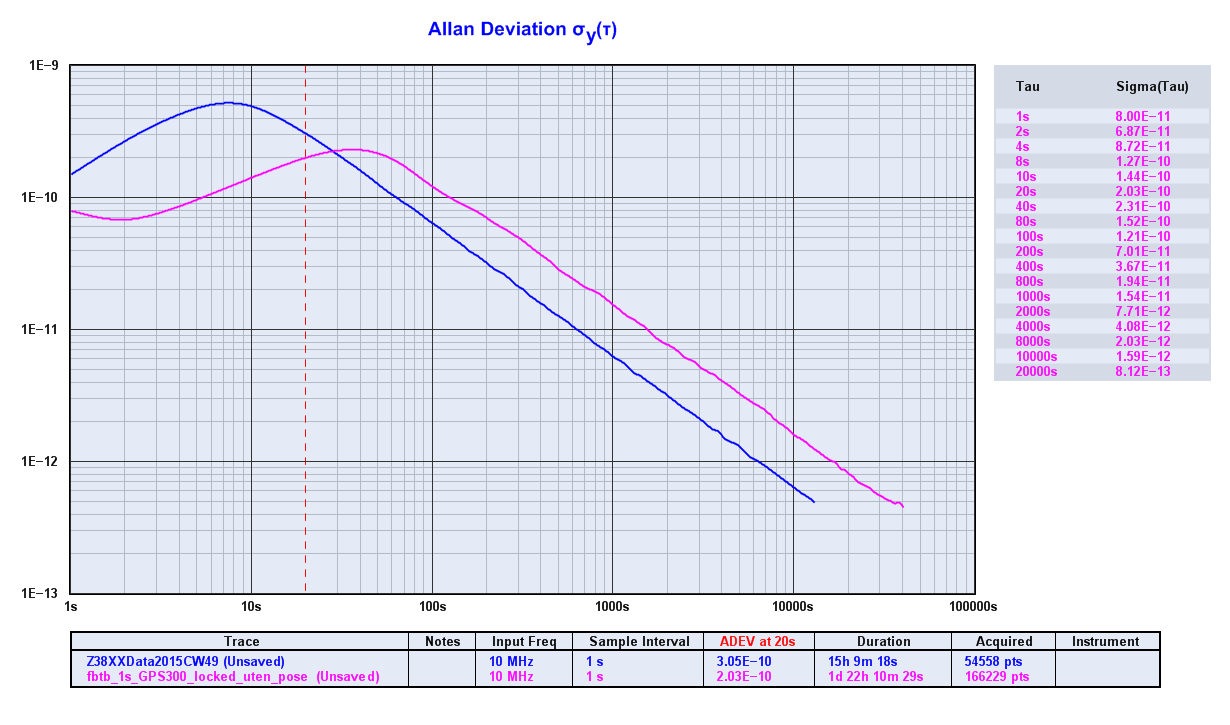
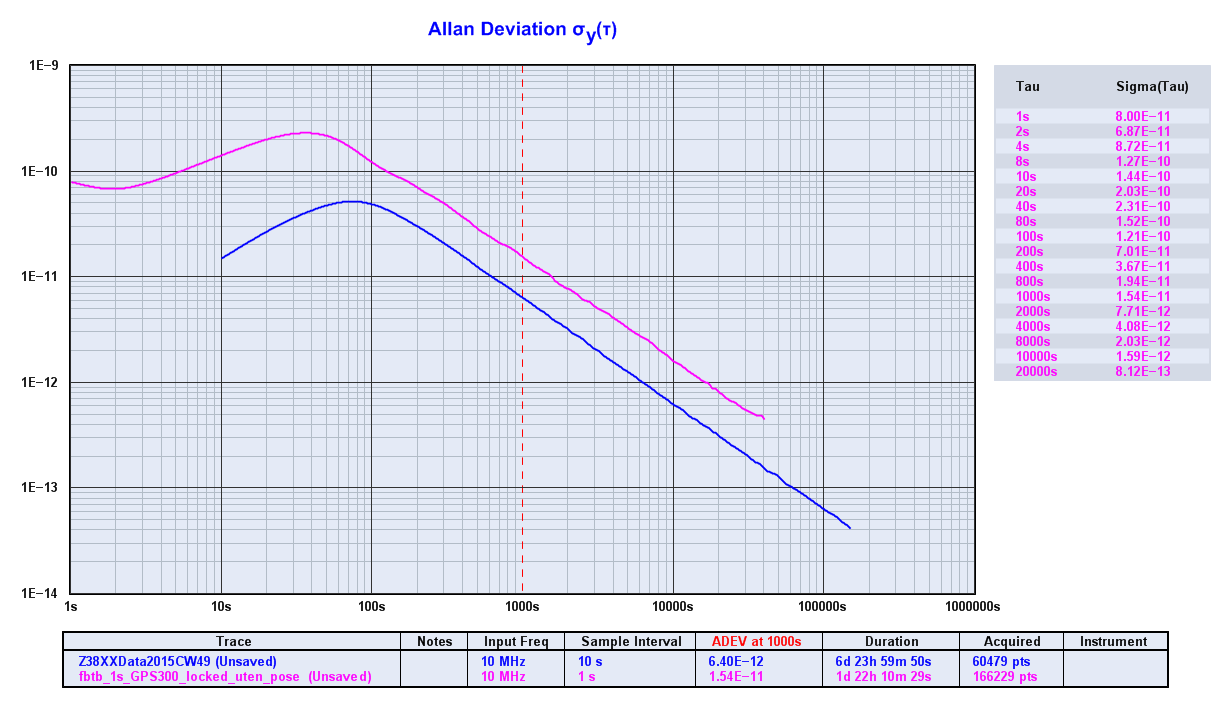
Fixed the errors Harald mentioned

diff --git a/unik4430/lab_report2.tex b/unik4430/lab_report2.tex
@@ -78,12 +78,12 @@
 \end{figure}
 
 \subsection{Observations}
-Figure \ref{fig:z38xx_oppstart} shows that the GPS receiver on the GPS-300 has a total of 13 satellites visible and that it is currently tracking 11, which is more than sufficient for timing purposes. It is also reasonable to assume that it has finished warming up considering how dramatic the readings where and how they are now. 
+Figure \ref{fig:z38xx_oppstart} is a screenshot taken from the Z38XX software. The blue plot shows PPS TI (current GPSR time interval difference from UTC or GPS) and the red is the current EFC (Electronic Frequency Control) tuning value. The bar on the bottom of the window shown in the figure, shows that the GPS receiver on the GPS-300 has a total of 13 satellites visible and that it is currently tracking 11, which is more than sufficient for timing purposes. Judging by how stable the EFC have become and how the PPS TI seems to have settled around zero, it is reasonable to assume that the oscillator is warmed up. Note also the fall in EFC in figure \ref{fig:Z38XX_gpsdo12} after we occupied the room and the temperature increased. This increase in temperature has to be compensated for.
 
 \begin{figure}[!htb]
   \centering
     \includegraphics[width=1\textwidth]{z38xx_EFC_oppvarmet_zoom.PNG}
-      \caption{Screenshot of Z38XX showing all the collected data, including the warm-up.}
+      \caption{Screenshot of Z38XX EFC values since startup. Note the drop towards the end. This is from when we occupied to room and increased the temperature.}
       \label{fig:Z38XX_gpsdo12}
 \end{figure}
 
@@ -101,19 +101,19 @@ Figure \ref{fig:z38xx_oppstart} shows that the GPS receiver on the GPS-300 has a
           \label{fig:part1_spm3_x38_phase_diff}
 \end{figure}
 
-When comparing the figure \ref{fig:part1_spm3_fbtb_phase_diff} showing phase difference from a frequency back-to-back  measurement done with our setup and figure \ref{fig:part1_spm3_x38_phase_diff} showing the phase difference measured by the internal counter on the GPS-300, it becomes obvious that the counter on the GPS-300 board is less accurate than our setup and therefore measures a little optimistic. The reason is that it has got a completely different and better reference. The CNT-91 timer uses the PHM as a reference while the GPS-300 uses GPS. GPS signals are extremely noisy compared to a PHM. The timer on the GPS-300 is also likely sub-par compared to the CNT-91. 
+When comparing the figure \ref{fig:part1_spm3_fbtb_phase_diff} showing phase difference from a frequency back-to-back  measurement done with our setup and figure \ref{fig:part1_spm3_x38_phase_diff} showing the phase difference measured by the internal counter on the GPS-300, it becomes obvious that there is difference. The measurement made by the counter on the GPS-300 board is more optimistic. The reason for the optimism, is that the GPS-300 is steered towards the GPS signal. Another is that the CNT-91 timer uses the PHM as a 10 MHz reference while the GPS-300 uses 1 PPS from GPS. GPS signals are extremely noisy compared to a PHM and also lack the resolution that the 10 MHz signal offers. The timer on the GPS-300 is also likely sub-par compared to the CNT-91. 
 
 \begin{figure}[!htb]
   \centering
     \includegraphics[width=1\textwidth]{part1_spm4_modified_allan.png}
-      \caption{Modified Allan Deviation for GPS-300 measured by the internal counter (pink) and CNT-91 (blue))}
+      \caption{Modified Allan Deviation for GPS-300 measured by the internal counter (blue) and CNT-91 (pink)}
           \label{fig:part1_spm4_modified_allan}
 \end{figure}
 
 \begin{figure}[!htb]
   \centering
     \includegraphics[width=1\textwidth]{part1_spm4_allan.png}
-      \caption{Allan Deviation for GPS-300 measured by the internal counter (pink) and CNT-91 (blue)}
+      \caption{Allan Deviation for GPS-300 measured by the internal counter (blue) and CNT-91 (pink)}
           \label{fig:part1_spm4_allan}
 \end{figure}
 
@@ -132,10 +132,10 @@ When comparing the figure \ref{fig:part1_spm3_fbtb_phase_diff} showing phase dif
 \end{figure}
 
 \newpage
-When comparing the measurement done by GPS-300's internal counter with our setup in the context of both regular (figure \ref{fig:part1_spm4_modified_allan}) and Modified Allan Deviation (figure \ref{fig:part1_spm4_allan}), it's clear that the measurement on our setup is the correct one. 
+When comparing the measurement done by GPS-300's internal counter with the measurement done by our setup in the context of both regular (figure \ref{fig:part1_spm4_modified_allan}) and Modified Allan Deviation (figure \ref{fig:part1_spm4_allan}), steering, the lack of a high quality reference and counter, results in a incorrect and optimistic measurement (blue plot figure \ref{fig:part1_spm4_modified_allan} and \ref{fig:part1_spm4_allan}) as discussed earlier.  
 
 % spm5 %
-Figure \ref{fig:tek00006} is a screenshot of the oscilloscope and shows both the GPS-300 and the PHM, trigging at the PHM (yellow). Upon observation of the oscilloscope, a PID like oscillation effect could be observed. When studying the figure \ref{fig:part1_spm5_freq_diff} showing the frequency difference made from a measurement done with our setup, this effect becomes more visible. One way to picture it, is that movement along the X-axis on the oscilloscope correlates to "movement" along the the Y-axis on figure \ref{fig:part1_spm5_freq_diff}. 
+Figure \ref{fig:tek00006} is a screenshot of the oscilloscope and shows both the GPS-300 and the PHM, trigging at the PHM (yellow). Upon observation of the oscilloscope, a PID like oscillation effect could be observed. When studying the figure h\ref{fig:part1_spm5_freq_diff} showing the frequency difference made from a measurement done with our setup, this effect becomes more visible. One way to picture it, is that movement along the X-axis on the oscilloscope correlates to "movement" along the the Y-axis on figure \ref{fig:part1_spm5_freq_diff}. 
 
 % spm6 %
 
@@ -148,7 +148,7 @@ Figure \ref{fig:del_1_spm6_mod_allan} and \ref{fig:del_1_spm6_allan} shows the M
 \end{itemize}
 Because of the 1000 point smoothing (green), not much can be said about the stability before 0.1 s. When comparing with the plot for the PHM, it becomes clear that any instability after 0.1 s is not because of the measurement setup, but rather the oscillator itself. However, by using the smoothing method, we are able to obtain resolution that would not be possible because of limitations in the measuring setup, already at 0.1 s instead of $approx$1.6s. By looking at the Modified Allan Deviation for the PHM, the limit of what you could hope to achieve in terms of resolution is revealed. This is because of how the Modified Allan Deviation is calculated by using a running average. This is also what makes it possible to separate white noise from flicker noise since white noise is uncorrelated and therefore possible to reduce by calculating an average.   
 
-Comparing with Symmetricom's own Allan Deviation, the GPS-300 actually performs better than their estimation. At 1 s, we measured 4.42E-11 as opposed to $\approx$ 9.00E-11. At 10 s, we measured 5.20E-11 and they $\approx$6.00E-10.
+Comparing with Symmetricom's own Allan Deviation, the GPS-300 actually performs better than their specifications. At 1 s, we measured 4.42E-11 as opposed to $\approx$ 9.00E-11. At 10 s, we measured 5.20E-11 and they $\approx$6.00E-10.
 
 \begin{figure}[!htb]
   \centering
@@ -188,7 +188,7 @@ When comparing the Allan Deviation for the measurement taken with and without GP
           \label{fig:del_2_spm2_fbtb_blaas_finger}
 \end{figure}
 
-Figure \ref{fig:del_2_spm2_fbtb_blaas_finger} shows what happens when you heat the oscillator up or cool it down. The first peak is when i put my finger on it and and the dip is when i blew air on it. The next peak and dip is from the same, but now the temperature compensation seems to have picked up the change, hence the last deep dip. The bottom-line is that the frequency increases as temperature drops, and decreases as temperature rises. 
+Figure \ref{fig:del_2_spm2_fbtb_blaas_finger} shows what happens when you heat the oscillator up or cool it down. The first peak is when i put my finger on it and and the dip is when i blew air on it. The next peak and dip is from the same, but now the temperature compensation seems to have picked up the change, hence the last deep dip. The bottom-line is that the frequency increases as temperature drops and frequency decreases as temperature rises. 
 After putting GPS-300 into holdover mode which means it is no longer disciplined by the GPS chip on the board, i measured it going from holdover and into locked mode using both out setup, (figure \ref{fig:del_2_spm3_fra_holdover_to_locked}) and the internal counter (figure \ref{fig:del_2_spm3_fra_holdover_to_locked_z38}). Unfortunately, there is an error in the figure \ref{fig:del_2_spm3_fra_holdover_to_locked} where the wrong sample interval has been used. It should have been 10 s instead of 1. However, it still shows how the internal counter has been a little optimistic as mentioned earlier. 
 
 \begin{figure}[!htb]
